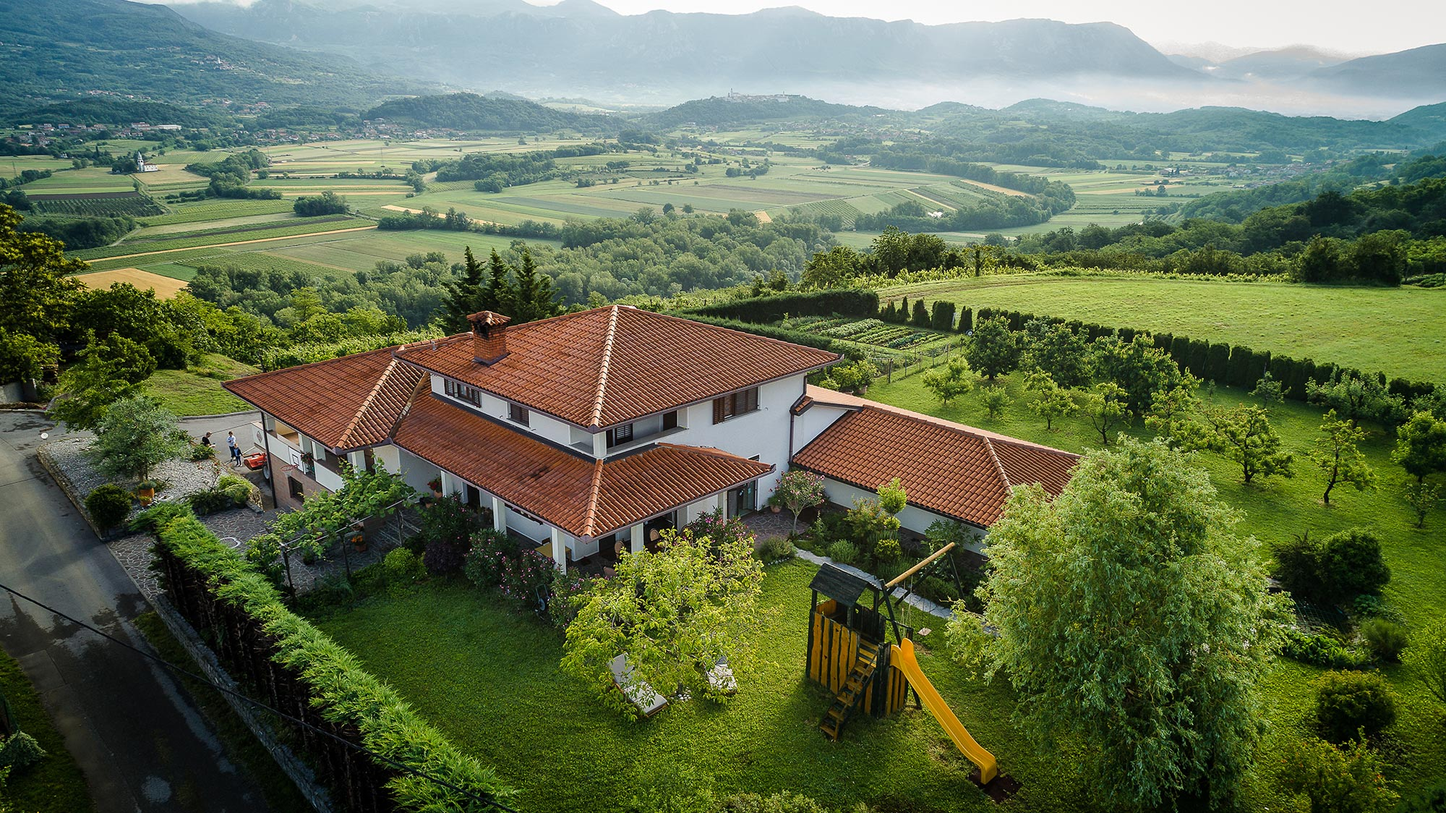
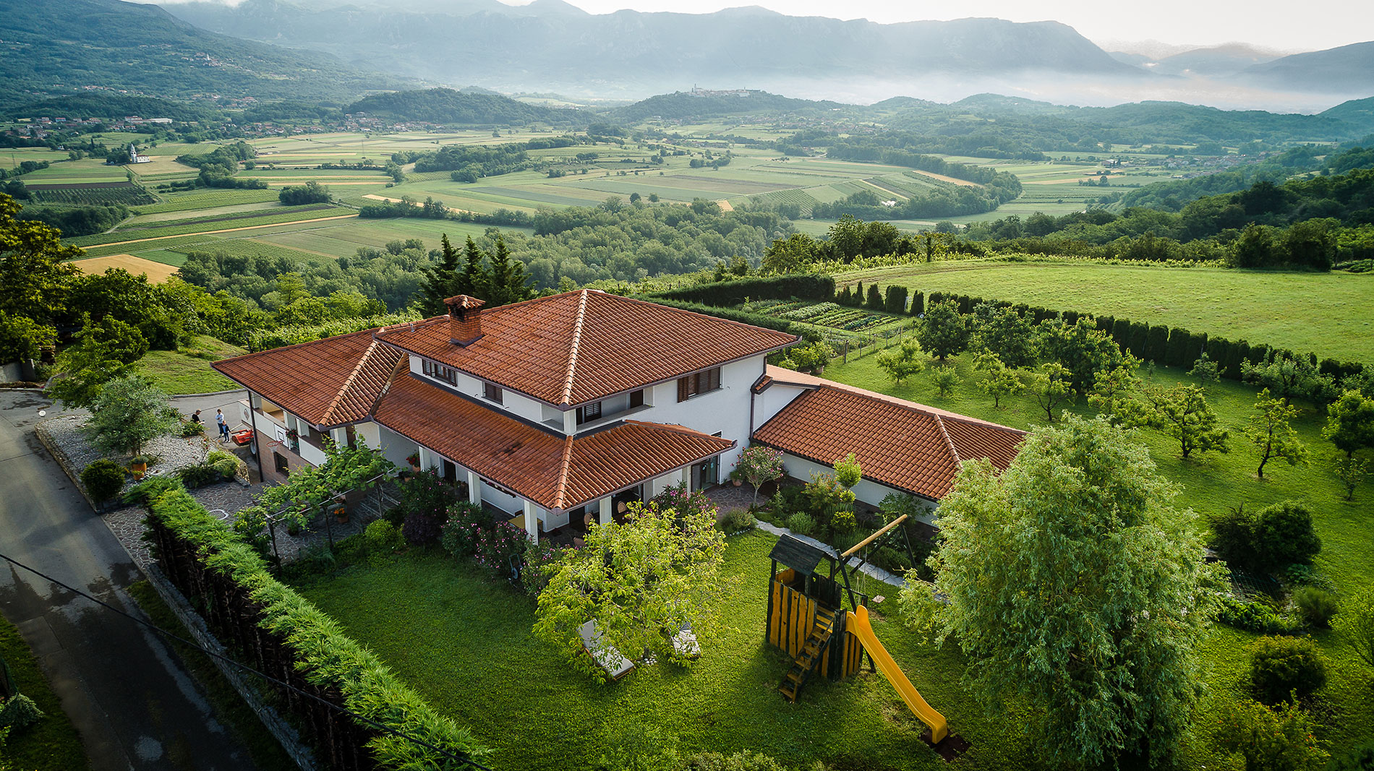
Update photos and content

diff --git a/components/global/ImageBlock.vue b/components/global/ImageBlock.vue
@@ -1,6 +1,6 @@
 <template>
   <div class="image-block" :class="{reverse}" :style="`background-color: #${bg};`">
-    <div class="photo" :style="`background-image: url('/images/blocks/${photo}')`" />
+    <div class="photo" :style="`background-image: url('/images/blocks/${photo}'); background-position: center ${position}`" />
     <div class="content">
       <div class="icon mb-2">
         <img :src="`/icons/${icon}`" :alt="title">
@@ -30,6 +30,10 @@ export default {
     },
     photo: {
       default: '',
+      type: String
+    },
+    position: {
+      default: 'center',
       type: String
     },
     bg: {

diff --git a/components/global/Menu.vue b/components/global/Menu.vue
@@ -1,8 +1,8 @@
 <template>
   <div class="nav-wrapper">
     <div class="navigation">
-      <n-link to="/">
-        <img class="logo" src="/images/cehovin-logo.svg" alt="Kmetija Čehovin">
+      <n-link to="/" class="logo">
+        <img src="/images/cehovin-logo.svg" alt="Kmetija Čehovin">
       </n-link>
 
       <div class="links">
@@ -126,8 +126,12 @@ export default {
 
   .logo {
     display: block;
-    max-width: 200px;
-    padding: 1rem 0;
+
+    img {
+      display: block;
+      width: 200px;
+      padding: 1rem 0;
+    }
   }
 
   .links {

diff --git a/pages/_slug.vue b/pages/_slug.vue
@@ -11,6 +11,7 @@
       :icon="block.icon"
       :photo="block.photo"
       :bg="block.bg"
+      :position="block.position"
       :reverse="i % 2 ? true : false"
     >
       <nuxt-content :document="block" />

diff --git a/content/kmetija/blocks/druzina.md b/content/kmetija/blocks/druzina.md
@@ -3,6 +3,7 @@ order: 3
 title: Družina
 icon: list.svg
 photo: druzina.jpg
+position: bottom
 ---
 
 Aleš in Dagmar sta z vztrajnostjo in potrpežljivostjo  večala svoje vinograde in družino. Pet hčera se jima je rodilo v sedmih letih: Tjaša, Ana, Marjeta, Marjana in Teja. Zadnji pa je prišel na svet sin Domen. Prav tako so se povečali in obnavljali vinogradi.

diff --git a/content/vino/blocks/ana-bella.md b/content/vino/blocks/ana-bella.md
@@ -3,6 +3,7 @@ order: 1
 title: Ana Bella
 icon: cvet.svg
 photo: ana-bella-vina.jpg
+position: bottom
 ---
 
 Zakaj Ana Bella? Čeprav je vino srednjega spola, je trta ženskega. In kje iskati lepoto? V njeni moči, v njeni prvinskosti. Ko močna in nepremagljiva kljubuje burji, suši in mrazu, rodi tisto najboljše, žlahtno grozdje!

diff --git a/content/vino/blocks/odrpto-vino.md b/content/vino/blocks/odrpto-vino.md
@@ -2,7 +2,8 @@
 order: 2
 title: Odprto vino
 icon: list.svg
-photo: grozd.jpg
+photo: vino.jpg
+position: top
 ---
 
 Ob blagovni znamki Ana Bella, pridelujemo še odprta in stekleničena vina: barbera, chardonnay, sauvignon, bele in rdeče zvrsti.
